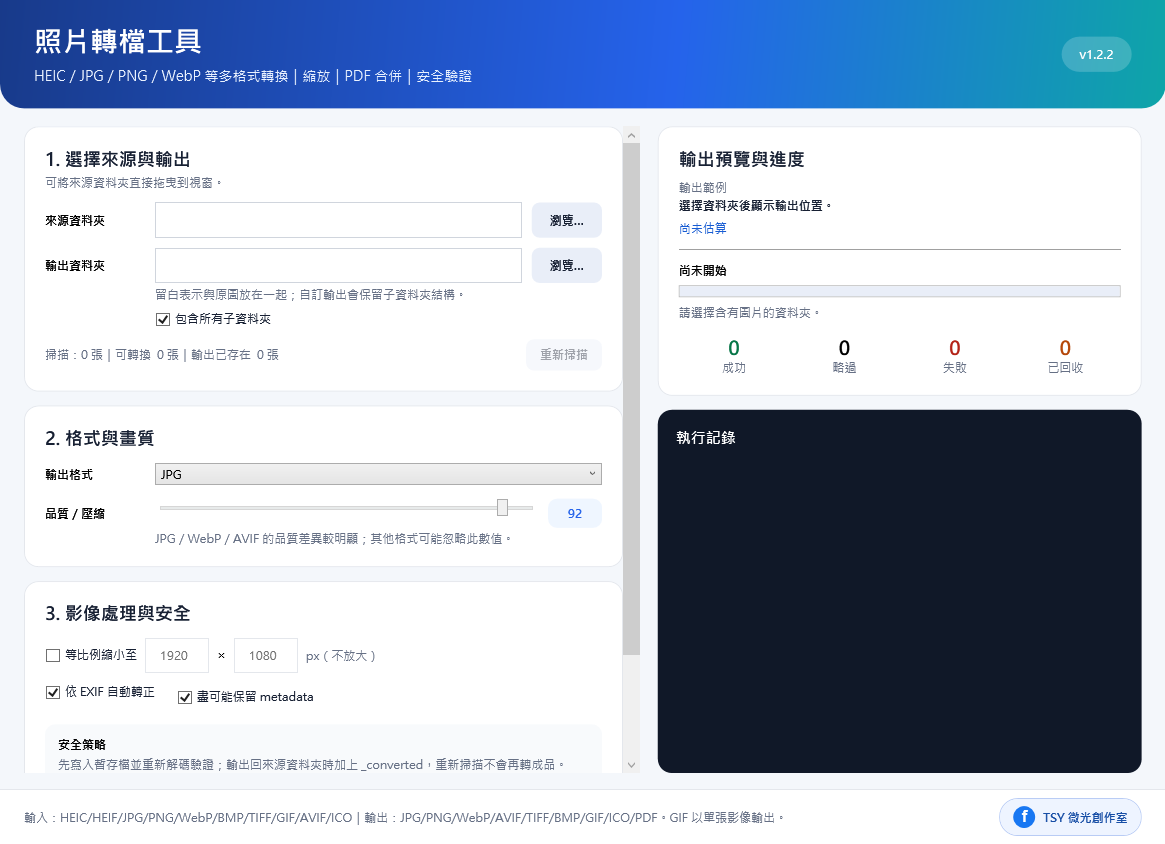
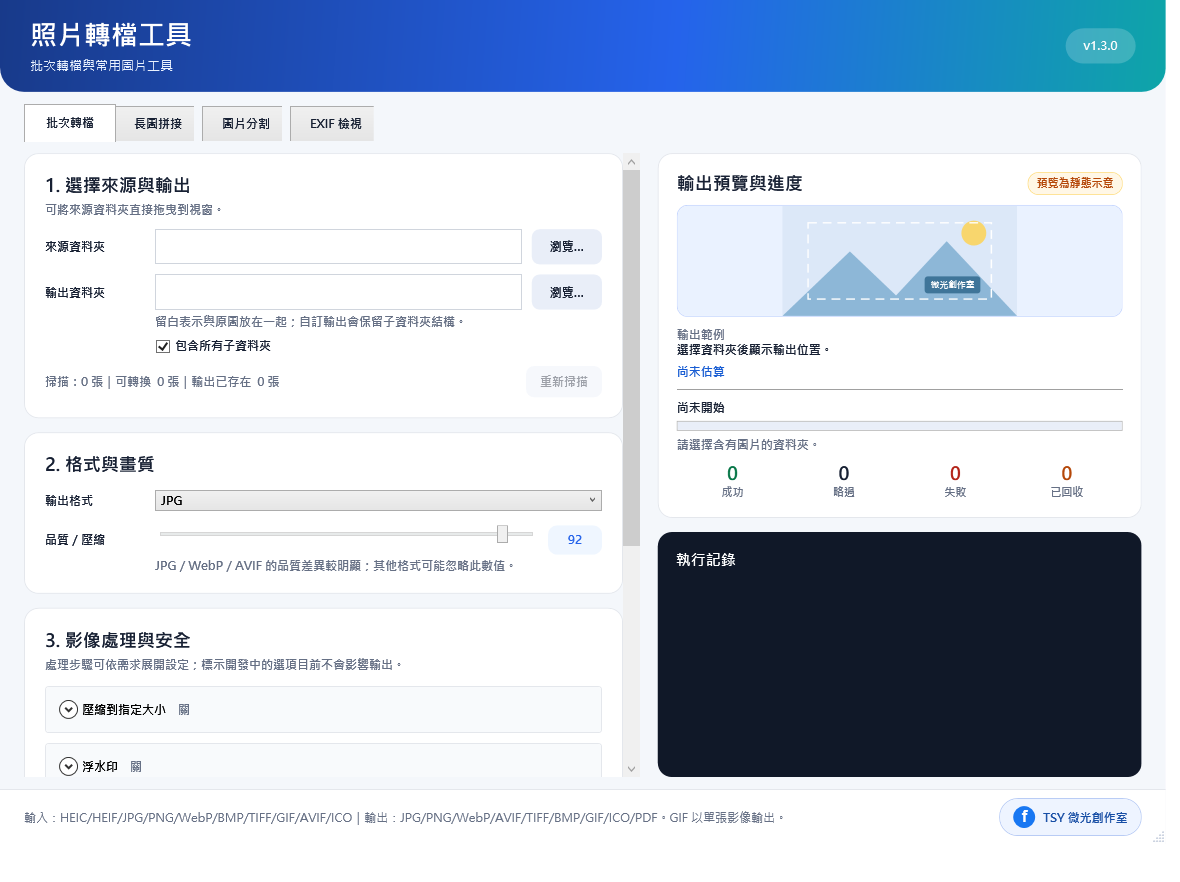
feat(photo-converter): v1.3.0 snapshot, features section, card date 2026-10-13

diff --git a/tools/photo-converter/index.html b/tools/photo-converter/index.html
@@ -49,10 +49,10 @@
           或把多張圖片合併成一份 PDF；每張輸出都會先寫暫存檔再重新解碼驗證，成功驗證後才可選擇把原始圖片移到資源回收筒。
         </p>
         <figure class="tool-screenshot">
-          <a class="tool-screenshot-link" href="../../assets/tools/photo-converter/screenshot.png" target="_blank" rel="noopener noreferrer" aria-label="放大查看PhotoConverter 照片轉檔工具介面快照（另開分頁）">
-            <img src="../../assets/tools/photo-converter/screenshot.png" alt="PhotoConverter 照片轉檔工具 v1.2.2 實際介面，未載入使用者檔案" width="1165" height="844" decoding="async">
+          <a class="tool-screenshot-link" href="../../assets/tools/photo-converter/screenshot.png?v=20261013a" target="_blank" rel="noopener noreferrer" aria-label="放大查看PhotoConverter 照片轉檔工具介面快照（另開分頁）">
+            <img src="../../assets/tools/photo-converter/screenshot.png?v=20261013a" alt="PhotoConverter 照片轉檔工具 v1.3.0 實際介面，未載入使用者檔案" width="1180" height="882" decoding="async">
           </a>
-          <figcaption>介面快照 · v1.2.2 · 點圖放大</figcaption>
+          <figcaption>介面快照 · v1.3.0 · 點圖放大</figcaption>
         </figure>
         <div class="hero-meta">
           <span class="version-badge" data-version>載入中…</span>
@@ -77,6 +77,20 @@
             前往 GitHub Releases 完整頁面
           </a>
         </p>
+      </section>
+
+      <section class="detail-section" aria-labelledby="features-title">
+        <h2 id="features-title">主要功能</h2>
+        <ul>
+          <li>影像處理：五種尺寸模式（最大寬高、寬度、高度、百分比、固定尺寸），可一次輸出最多 6 組寬度；旋轉、水平／垂直翻轉、依比例或固定尺寸裁剪。</li>
+          <li>壓縮到指定檔案大小：限輸出 JPG、WebP、AVIF；達不到目標時會以最低品質輸出並提示。</li>
+          <li>浮水印：支援文字（含中文）與圖片，可設 9 個位置或平鋪、邊距、不透明度、旋轉與大小比例。</li>
+          <li>長圖拼接：把多張圖片垂直或水平拼成一張，可設間距與背景色。</li>
+          <li>圖片分割：依網格（例如 3×3 九宮格）或自訂像素切線切成多張。</li>
+          <li>EXIF 檢視：唯讀顯示相機、拍攝參數與 GPS，可複製全部內容，不會修改原圖。</li>
+          <li>所有功能同樣不覆寫既有檔案，輸出經驗證後才算完成。</li>
+        </ul>
+        <p>目前的限制：輸出預覽為靜態示意；圖片分割的自訂切線以輸入像素數值設定；浮水印字級為固定像素。新功能在發行版以視窗操作測試，影像處理邏輯由核心測試涵蓋。</p>
       </section>
 
       <section class="detail-section" aria-labelledby="format-title">

diff --git a/index.html b/index.html
@@ -61,14 +61,14 @@
             <a class="primary-link" href="./tools/pdf-workshop/">前往下載</a>
           </article>
 
-          <article class="tool-card" data-updated-at="2026-10-12">
+          <article class="tool-card" data-updated-at="2026-10-13">
             <div class="tool-thumb" aria-hidden="true">
               <img class="tool-app-icon" src="./assets/tools/photo-converter/icon.png" alt="" width="92" height="92" decoding="async">
             </div>
             <div class="tool-card-copy">
               <p>Windows 桌面工具</p>
               <h3>PhotoConverter 照片轉檔工具</h3>
-              <span>批次把 HEIC／JPG／PNG／WebP 等圖片轉成多種格式或合併成 PDF，每張輸出都會重新解碼驗證。</span>
+              <span>批次把 HEIC／JPG／PNG／WebP 等圖片轉成多種格式或合併成 PDF，還能縮放、裁剪、加浮水印、長圖拼接與分割，每張輸出都會重新解碼驗證。</span>
             </div>
             <a class="primary-link" href="./tools/photo-converter/">前往下載</a>
           </article>
